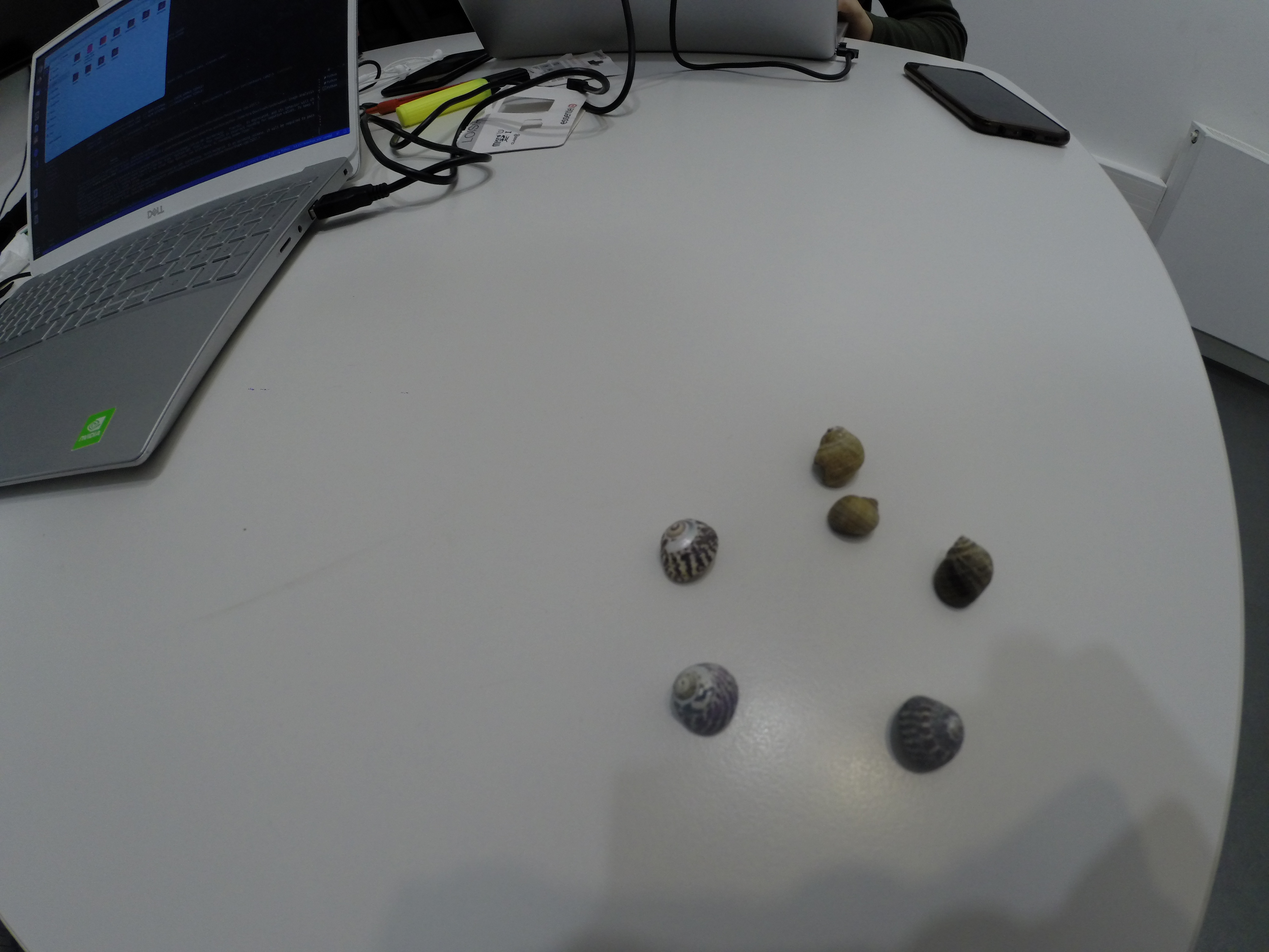
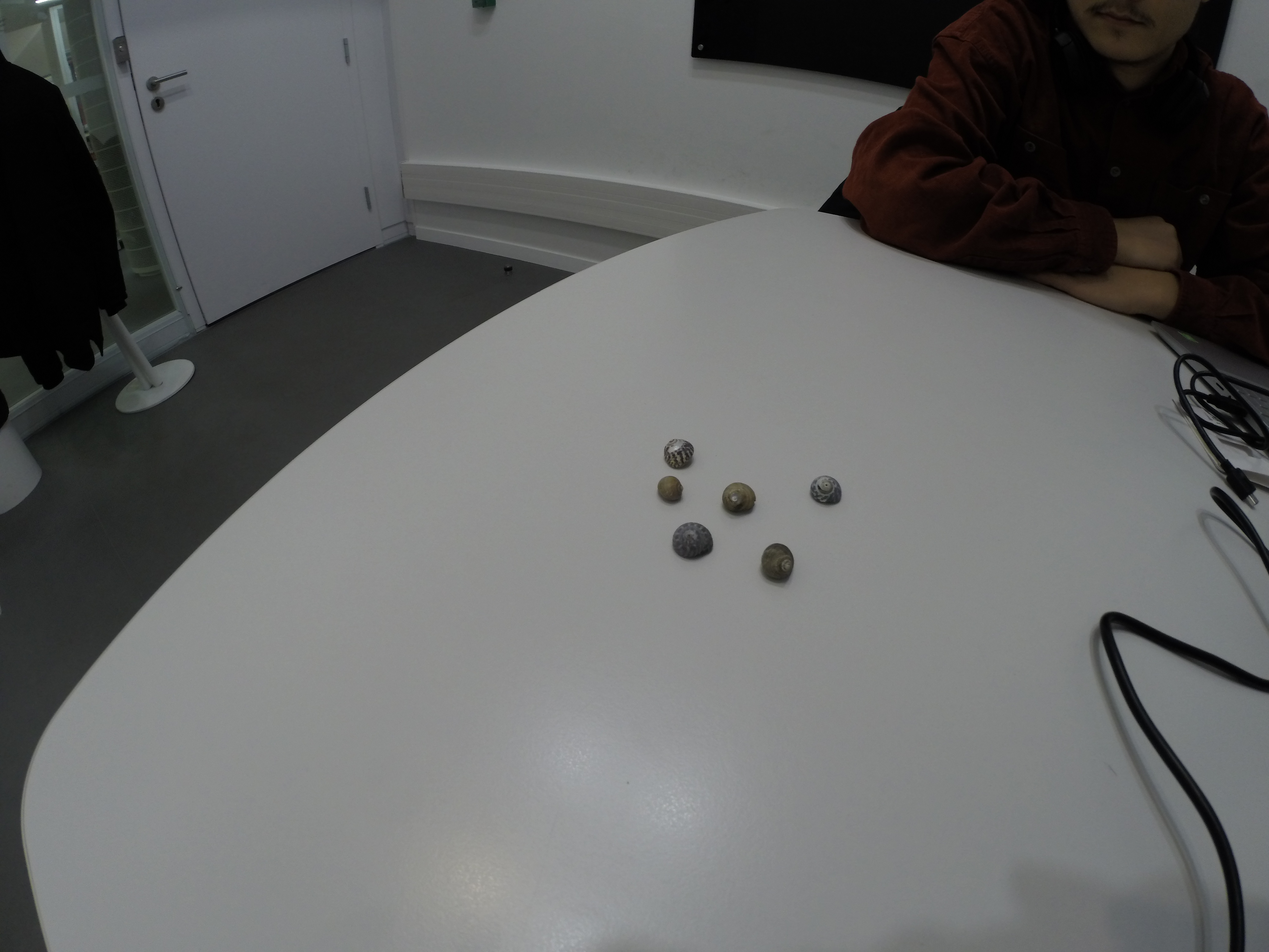
improuvement

diff --git a/test.py b/test.py
@@ -15,7 +15,7 @@ predictor, cfg = init_config(str(weights), SCORE_THRESH_TEST = 0.8)
 
 # charger l'image
 img_cam1 = cv2.imread("./data/imm/GOPR1463.JPG")
-img_cam2 = cv2.imread("./data/imm/GOPR1462.JPG")
+img_cam2 = cv2.imread("./data/imm/GOPR1464.JPG")
 
 img_cam1 = imutils.resize(img_cam1, width=640, height=640)
 img_cam2 = imutils.resize(img_cam2, width=640, height=640)
